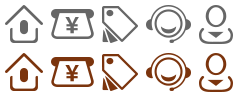
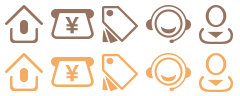
棕色主题调整

diff --git a/WebContent/mobile-v3/themes/coffee_black/style.css b/WebContent/mobile-v3/themes/coffee_black/style.css
@@ -27,7 +27,7 @@ header.mui-bar-nav .mui-action-back { color: #fff; }
 .nav { background: #151515 url(./images/nav-bg.png) 0 0/100% 60px repeat-x; border-top: 0; position: relative; }
 .nav:after { content: ''; position: absolute; height: 1px; background: transparent; bottom: 3px; left: 0; right: 0; }
 .nav .swiper-slide { color: #fff; position: relative; }
-.nav .swiper-slide.swiper-slide-active span { color: #7b340d; }
+.nav .swiper-slide.swiper-slide-active span { color: #f3ac61; }
 .nav .swiper-slide.swiper-slide-active:after { content: ''; position: absolute; top: 0; left: 50%; margin-left: -37px; z-index: 1; width: 74px; height: 70px; background: url(images/nav-item-active-bg.png) center top/74px 65px no-repeat; }
 
 /* api-grid */
@@ -41,9 +41,9 @@ header.mui-bar-nav .mui-action-back { color: #fff; }
 .api-grid ul[data-list="lottery"] .lottery-nav li .mui-tab-item.mui-active { border-bottom: 1px solid #168df6; }
 
 /* mui-bar-footer */
-.mui-bar-tab { background: #252525; border-top: 1px solid #393939; }
-.mui-bar-tab .mui-tab-label { color: #666; }
-.mui-bar-tab .mui-active .mui-tab-label { color: #7b340d; }
+.mui-bar-tab { background: #4e2109 !important; border-top: 1px solid #5d270b; }
+.mui-bar-tab .mui-tab-label { color: #96735f; }
+.mui-bar-tab .mui-active .mui-tab-label { color: #f3ac61; }
 
 /* mui-off-canvas-left */
 .mui-off-canvas-left { background: #444; }

diff --git a/WebContent/mobile-v3/themes/coffee_black/style.scss b/WebContent/mobile-v3/themes/coffee_black/style.scss
@@ -33,7 +33,7 @@
     &:after{content: '';position: absolute;height: 1px;background:transparent;bottom: 3px;left: 0;right: 0;}
     .swiper-slide{ color: #fff;position: relative;
         &.swiper-slide-active{
-            span{color: #7b340d;}
+            span{color: #f3ac61;}
             &:after{    content: '';   position: absolute;   top: 0;   left: 50%;   margin-left: -37px;    z-index:1;    width: 74px;    height: 70px;    background: url(images/nav-item-active-bg.png) center top/74px 65px no-repeat;}
         }
     }
@@ -62,11 +62,11 @@
 }
 /* mui-bar-footer */
 .mui-bar-tab{
-    background: #252525;
-    border-top: 1px solid #393939;
-    .mui-tab-label{color: #666;}
+    background: #4e2109 !important;
+    border-top: 1px solid #5d270b;
+    .mui-tab-label{color: #96735f;}
     .mui-active{
-        .mui-tab-label{color: #7b340d;}
+        .mui-tab-label{color: #f3ac61;}
     }
 }
 /* mui-off-canvas-left */
